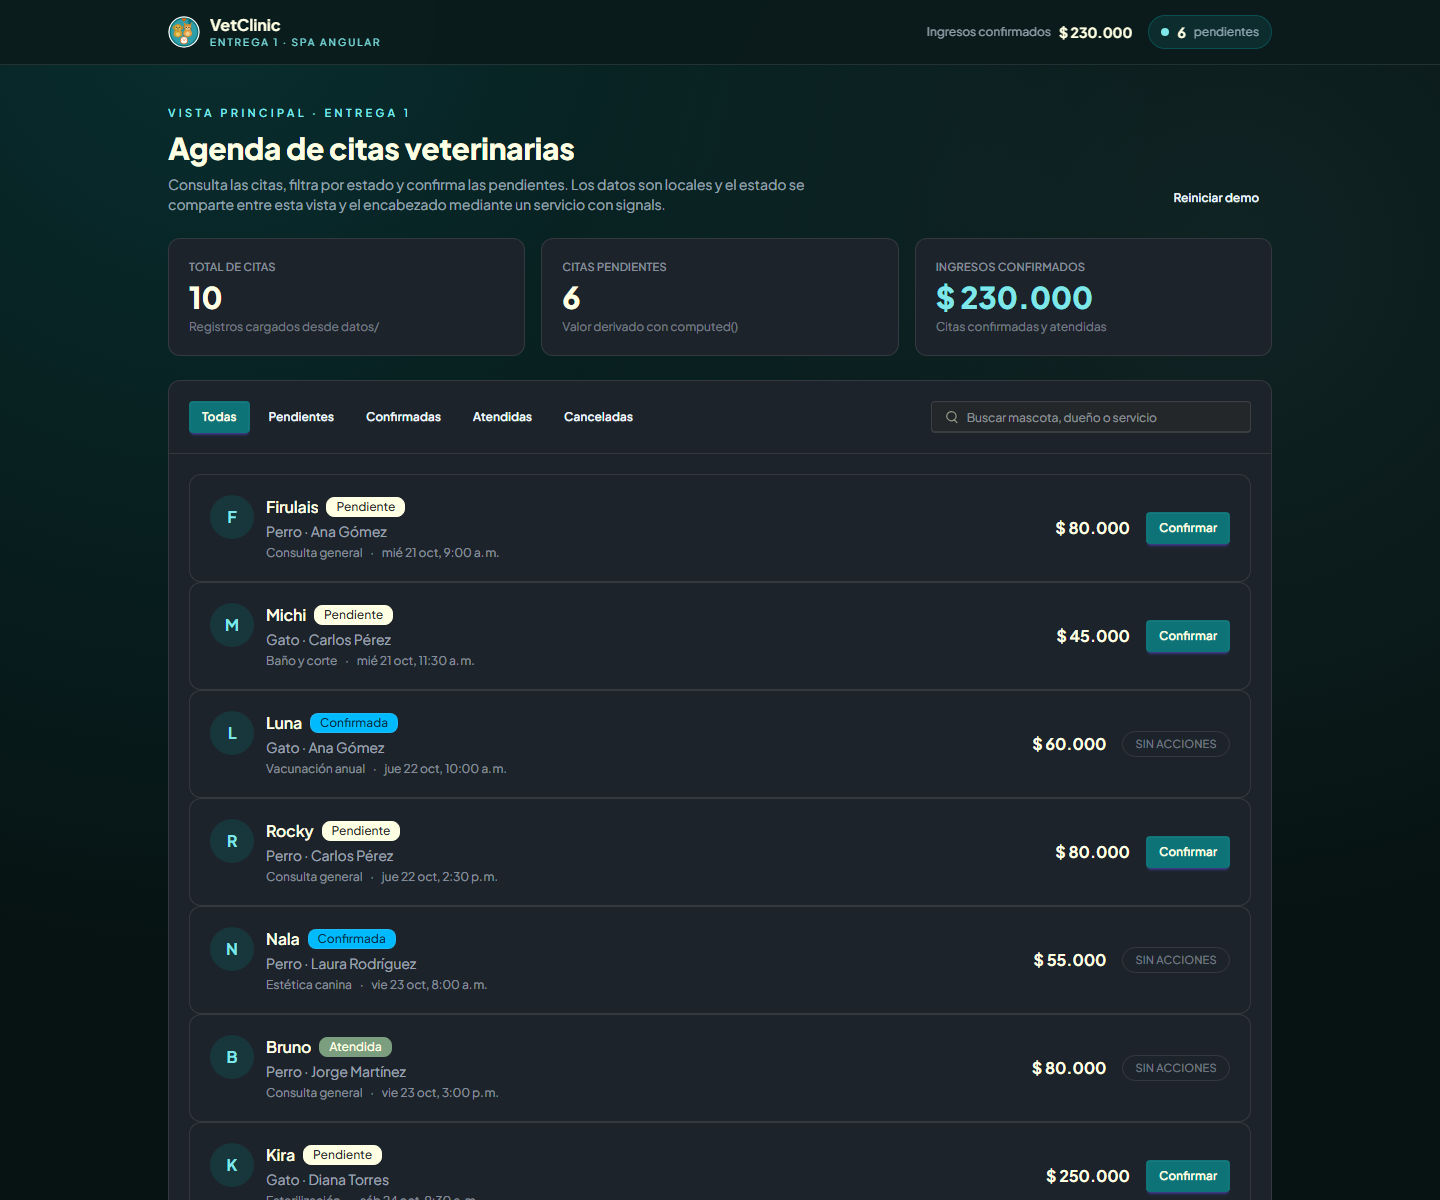
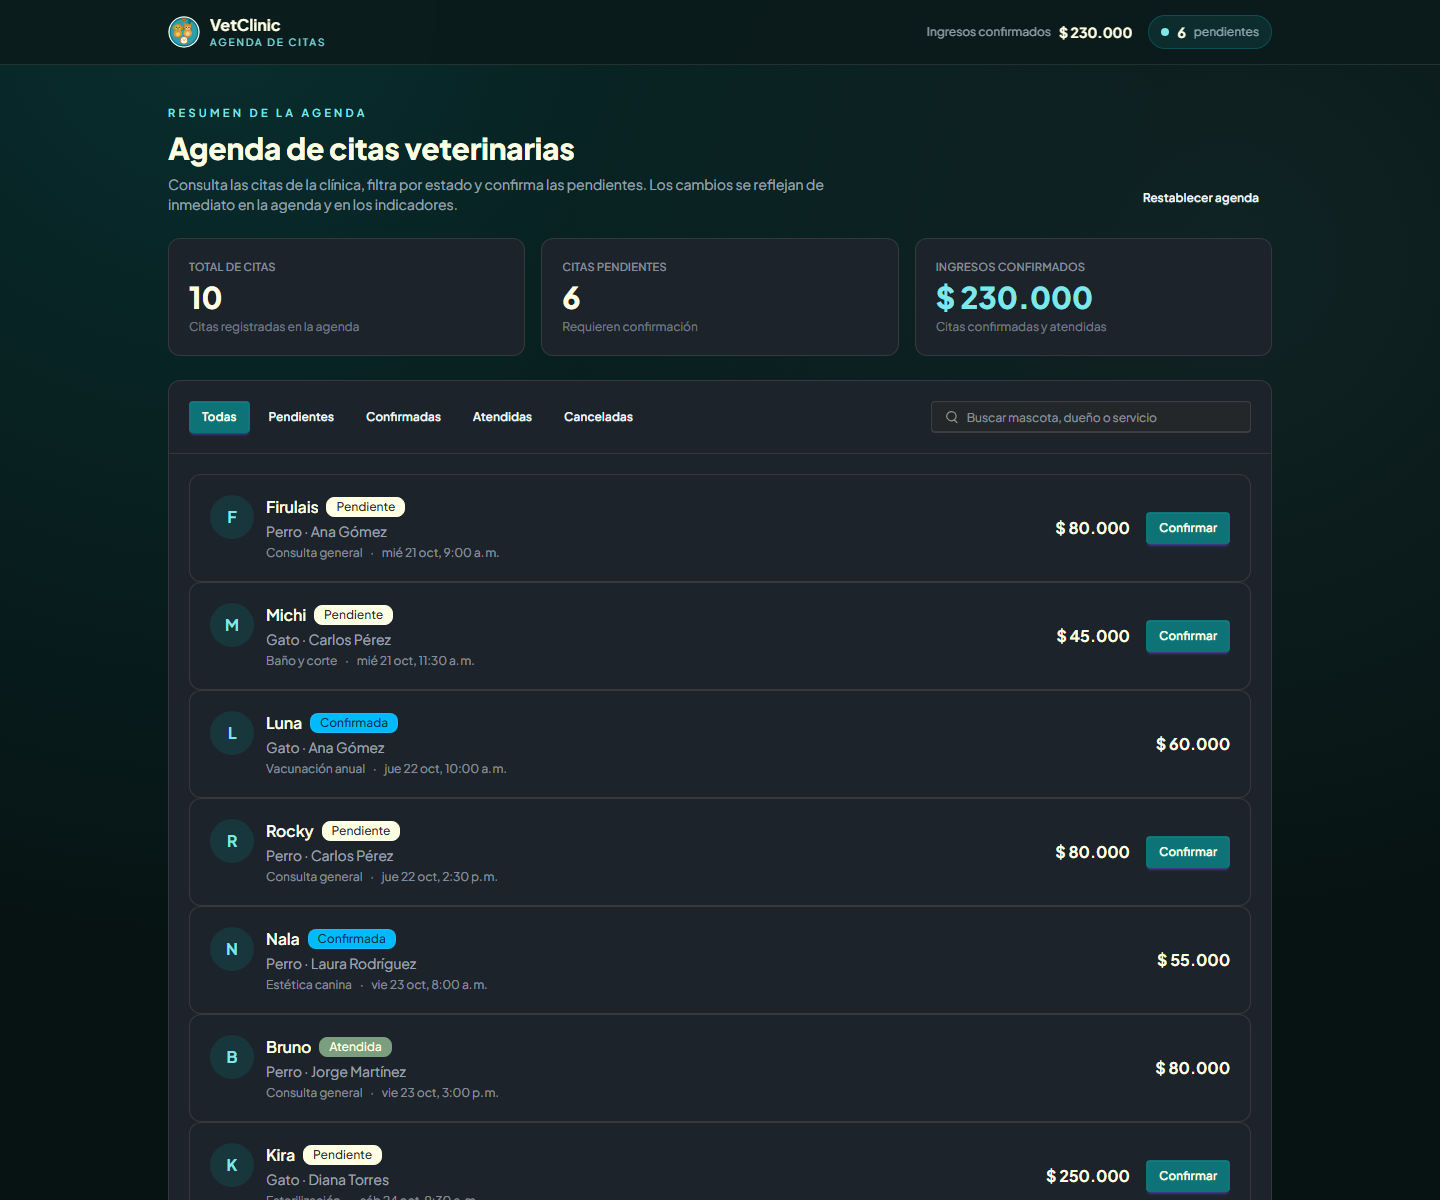
feat(entrega1): acceso visible desde login y textos de interfaz limpios

diff --git a/src/app/features/auth/login/login.component.ts b/src/app/features/auth/login/login.component.ts
@@ -9,13 +9,11 @@ import { getApiErrorMessage } from '../../../core/utils/api-error';
   imports: [FormsModule, RouterLink],
   template: `
     <div>
-      <!-- Title -->
       <div class="text-center mb-8 form-field">
         <h2 class="text-xl sm:text-2xl font-extrabold text-[#FFFFE3]">Bienvenido de vuelta</h2>
         <p class="text-sm text-[#CBCBCB] mt-2">Ingresa tus credenciales para continuar</p>
       </div>
 
-      <!-- Error -->
       @if (error()) {
         <div class="alert alert-error mb-6 animate-shake">
           <svg xmlns="http://www.w3.org/2000/svg" class="stroke-current shrink-0 h-5 w-5" fill="none" viewBox="0 0 24 24">
@@ -26,7 +24,6 @@ import { getApiErrorMessage } from '../../../core/utils/api-error';
       }
 
       <form (ngSubmit)="handleLogin()" class="space-y-5">
-        <!-- Email -->
         <div class="form-field form-control">
           <label class="label">
             <span class="label-text font-semibold text-sm text-[#CBCBCB]">Correo electrónico</span>
@@ -54,7 +51,6 @@ import { getApiErrorMessage } from '../../../core/utils/api-error';
           </div>
         </div>
 
-        <!-- Password -->
         <div class="form-field form-control">
           <label class="label">
             <span class="label-text font-semibold text-sm text-[#CBCBCB]">Contraseña</span>
@@ -98,7 +94,6 @@ import { getApiErrorMessage } from '../../../core/utils/api-error';
           </div>
         </div>
 
-        <!-- Submit -->
         <div class="form-field">
           <button
             type="submit"
@@ -114,13 +109,31 @@ import { getApiErrorMessage } from '../../../core/utils/api-error';
         </div>
       </form>
 
-      <!-- Divider -->
-      <div class="divider-icon flex items-center gap-4 my-6 form-field">
-        <span class="text-xs text-[#9a9a9a] font-medium whitespace-nowrap">O continua con</span>
+      <div class="mt-4 form-field">
+        <a
+          routerLink="/entrega-1"
+          class="btn btn-outline w-full h-11 rounded-xl border-[#0D7377]/50 text-[#7FE7E9] hover:border-[#0D7377] hover:bg-[#0D7377]/15 hover:text-[#FFFFE3] font-semibold text-sm"
+        >
+          <svg
+            xmlns="http://www.w3.org/2000/svg"
+            class="h-4 w-4"
+            fill="none"
+            viewBox="0 0 24 24"
+            stroke="currentColor"
+            aria-hidden="true"
+          >
+            <path
+              stroke-linecap="round"
+              stroke-linejoin="round"
+              stroke-width="2"
+              d="M8 7V3m8 4V3m-9 8h10M5 21h14a2 2 0 002-2V7a2 2 0 00-2-2H5a2 2 0 00-2 2v12a2 2 0 002 2z"
+            />
+          </svg>
+          Ver agenda de citas
+        </a>
       </div>
 
-      <!-- Register link -->
-      <div class="text-center form-field">
+      <div class="mt-6 text-center form-field">
         <p class="text-sm text-[#CBCBCB]">
           No tienes una cuenta?
           <a routerLink="/register" class="font-bold text-[#0D7377] hover:text-[#1A8A8E] ml-1">

diff --git a/src/app/componentes/entrega1/entrega1-view/entrega1-view.component.ts b/src/app/componentes/entrega1/entrega1-view/entrega1-view.component.ts
@@ -14,19 +14,19 @@ type FiltroCitas = 'TODAS' | EstadoCitaDemo;
       <div class="flex flex-col gap-4 sm:flex-row sm:items-end sm:justify-between">
         <div>
           <p class="text-[11px] font-semibold uppercase tracking-[0.3em] text-[#7FE7E9]">
-            Vista principal · Entrega 1
+            Resumen de la agenda
           </p>
           <h1 class="mt-2 text-2xl font-extrabold text-[#FFFFE3] sm:text-3xl">
             Agenda de citas veterinarias
           </h1>
           <p class="mt-2 max-w-2xl text-sm text-base-content/60">
-            Consulta las citas, filtra por estado y confirma las pendientes. Los datos son locales y
-            el estado se comparte entre esta vista y el encabezado mediante un servicio con signals.
+            Consulta las citas de la clínica, filtra por estado y confirma las pendientes. Los
+            cambios se reflejan de inmediato en la agenda y en los indicadores.
           </p>
         </div>
 
         <button type="button" class="btn btn-ghost btn-sm self-start sm:self-auto" (click)="reiniciarDemo()">
-          Reiniciar demo
+          Restablecer agenda
         </button>
       </div>
 
@@ -36,7 +36,7 @@ type FiltroCitas = 'TODAS' | EstadoCitaDemo;
             Total de citas
           </p>
           <p class="mt-1 text-3xl font-extrabold text-[#FFFFE3]">{{ citasDemo.totalCitas() }}</p>
-          <p class="mt-1 text-xs text-base-content/40">Registros cargados desde datos/</p>
+          <p class="mt-1 text-xs text-base-content/40">Citas registradas en la agenda</p>
         </article>
 
         <article class="rounded-xl border border-white/10 bg-base-100 p-5">
@@ -46,7 +46,7 @@ type FiltroCitas = 'TODAS' | EstadoCitaDemo;
           <p class="mt-1 text-3xl font-extrabold text-[#FFFFE3]">
             {{ citasDemo.totalPendientes() }}
           </p>
-          <p class="mt-1 text-xs text-base-content/40">Valor derivado con computed()</p>
+          <p class="mt-1 text-xs text-base-content/40">Requieren confirmación</p>
         </article>
 
         <article class="rounded-xl border border-white/10 bg-base-100 p-5">
@@ -69,7 +69,7 @@ type FiltroCitas = 'TODAS' | EstadoCitaDemo;
           <div>
             <p class="font-semibold">Cita de {{ mascota }} confirmada</p>
             <p class="text-emerald-200/70">
-              El contador de pendientes y los ingresos confirmados del encabezado cambiaron.
+              La agenda y los indicadores se actualizaron.
             </p>
           </div>
         </div>

diff --git a/src/app/layouts/auth-layout/auth-layout.component.ts b/src/app/layouts/auth-layout/auth-layout.component.ts
@@ -6,12 +6,10 @@ import { RouterOutlet } from '@angular/router';
   imports: [RouterOutlet],
   template: `
     <div class="min-h-screen bg-animated flex items-center justify-center p-4 relative overflow-hidden">
-      <!-- Floating decorative shapes -->
       <div class="floating-shape floating-shape-1"></div>
       <div class="floating-shape floating-shape-2"></div>
       <div class="floating-shape floating-shape-3"></div>
 
-      <!-- Floating paw prints (decorative) -->
       <div class="absolute top-20 left-10 animate-float opacity-10 pointer-events-none">
         <svg xmlns="http://www.w3.org/2000/svg" class="h-16 w-16 text-[#0D7377]" fill="currentColor" viewBox="0 0 24 24">
           <path d="M12 21.35l-1.45-1.32C5.4 15.36 2 12.28 2 8.5 2 5.42 4.42 3 7.5 3c1.74 0 3.41.81 4.5 2.09C13.09 3.81 14.76 3 16.5 3 19.58 3 22 5.42 22 8.5c0 3.78-3.4 6.86-8.55 11.54L12 21.35z"/>
@@ -29,7 +27,6 @@ import { RouterOutlet } from '@angular/router';
       </div>
 
       <div class="w-full max-w-md relative z-10">
-        <!-- Logo with animation -->
         <div class="text-center mb-8 animate-slide-up">
           <div class="inline-flex items-center justify-center w-20 h-20 rounded-full shadow-lg shadow-[#0D7377]/25 mb-4 logo-hover">
             <img src="/logo.svg" alt="VetClinic" class="w-20 h-20 rounded-full" />
@@ -37,7 +34,6 @@ import { RouterOutlet } from '@angular/router';
           <h1 class="text-3xl font-extrabold gradient-text">VetClinic</h1>
         </div>
 
-        <!-- Auth card with glass effect -->
         <div class="auth-card rounded-3xl animate-scale-in">
           <div class="card-body p-8">
             <router-outlet />

diff --git a/src/app/componentes/entrega1/demo-header/demo-header.component.ts b/src/app/componentes/entrega1/demo-header/demo-header.component.ts
@@ -2,10 +2,6 @@ import { CurrencyPipe } from '@angular/common';
 import { Component, inject } from '@angular/core';
 import { CitasDemoService } from '../../../servicios/citas-demo.service';
 
-/**
- * Encabezado de la página. Está fuera de la vista principal y lee
- * el mismo estado que la agenda mediante el servicio compartido.
- */
 @Component({
   selector: 'app-demo-header',
   imports: [CurrencyPipe],
@@ -17,7 +13,7 @@ import { CitasDemoService } from '../../../servicios/citas-demo.service';
           <div class="min-w-0">
             <p class="truncate font-bold leading-tight text-[#FFFFE3]">VetClinic</p>
             <p class="text-[10px] uppercase tracking-[0.2em] text-[#7FE7E9]">
-              Entrega 1 · SPA Angular
+              Agenda de citas
             </p>
           </div>
         </div>
@@ -32,7 +28,6 @@ import { CitasDemoService } from '../../../servicios/citas-demo.service';
 
           <div
             class="flex items-center gap-2 rounded-full border border-[#0D7377]/50 bg-[#0D7377]/20 px-3 py-1.5"
-            title="Citas pendientes calculadas con computed()"
           >
             <span class="h-2 w-2 rounded-full bg-[#7FE7E9]"></span>
             <span class="text-sm font-bold text-[#FFFFE3]">

diff --git a/src/app/componentes/entrega1/cita-demo-card/cita-demo-card.component.ts b/src/app/componentes/entrega1/cita-demo-card/cita-demo-card.component.ts
@@ -47,7 +47,7 @@ import { EstadoCitaPipe } from '../../../pipes/estado-cita.pipe';
       </div>
 
       <div
-        class="flex shrink-0 items-center justify-between gap-4 border-t border-white/5 pt-3 lg:border-0 lg:pt-0"
+        class="flex shrink-0 items-center justify-end gap-4 border-t border-white/5 pt-3 lg:border-0 lg:pt-0"
       >
         <span class="font-bold text-[#FFFFE3]">
           {{ cita().precio | currency: 'COP' : 'symbol' : '1.0-0' : 'es-CO' }}
@@ -57,12 +57,6 @@ import { EstadoCitaPipe } from '../../../pipes/estado-cita.pipe';
           <button type="button" class="btn btn-primary btn-sm" (click)="confirmar.emit(cita().id)">
             Confirmar
           </button>
-        } @else {
-          <span
-            class="rounded-full border border-white/10 px-3 py-1 text-[11px] uppercase tracking-wide text-base-content/40"
-          >
-            Sin acciones
-          </span>
         }
       </div>
     </article>

diff --git a/src/app/servicios/citas-demo.service.ts b/src/app/servicios/citas-demo.service.ts
@@ -2,11 +2,6 @@ import { computed, Injectable, signal } from '@angular/core';
 import { CITAS_DEMO } from '../datos/citas-demo';
 import { CitaDemo } from '../modelos/cita-demo';
 
-/**
- * Dueño del estado de la agenda de demostración.
- * La señal es privada; el exterior solo puede leerla mediante asReadonly().
- * Todos los cambios se hacen con actualizaciones inmutables.
- */
 @Injectable({ providedIn: 'root' })
 export class CitasDemoService {
   private readonly _citas = signal<CitaDemo[]>(CITAS_DEMO);

diff --git a/src/app/datos/citas-demo.ts b/src/app/datos/citas-demo.ts
@@ -1,11 +1,5 @@
 import { CitaDemo } from '../modelos/cita-demo';
 
-/**
- * Datos locales de la vista de la Entrega 1.
- * No se consumen desde la API: son el origen de verdad de la demostración.
- * No se incluye ninguna cita CANCELADA para poder mostrar el caso límite
- * del bloque @empty al seleccionar ese filtro.
- */
 export const CITAS_DEMO: CitaDemo[] = [
   {
     id: 1,

diff --git a/src/app/componentes/entrega1/entrega1-page/entrega1-page.component.ts b/src/app/componentes/entrega1/entrega1-page/entrega1-page.component.ts
@@ -14,7 +14,7 @@ import { Entrega1ViewComponent } from '../entrega1-view/entrega1-view.component'
       </main>
 
       <footer class="border-t border-white/10 py-5 text-center text-xs text-base-content/40">
-        VetClinic · Grupo 6 · Entrega 1 · Angular 22 · Datos locales
+        VetClinic · Gestión de citas veterinarias
       </footer>
     </div>
   `,

diff --git a/README.md b/README.md
@@ -24,7 +24,7 @@ La **Entrega 1** del proyecto integrador se demuestra en una vista pública con 
 | Local | http://localhost:4200/entrega-1 |
 | Producción | https://veterinaria-one-nu.vercel.app/entrega-1 |
 
-La ruta es **pública** (no requiere iniciar sesión) y usa exclusivamente datos locales de `src/app/datos/citas-demo.ts`. No llama a la API, de modo que la demostración funciona sin backend.
+La ruta es **pública** (no requiere iniciar sesión) y usa exclusivamente datos locales de `src/app/datos/citas-demo.ts`. No llama a la API, de modo que la demostración funciona sin backend. También puedes entrar desde el botón **Ver agenda de citas** de la pantalla de login.
 
 Qué se puede ver:
 
